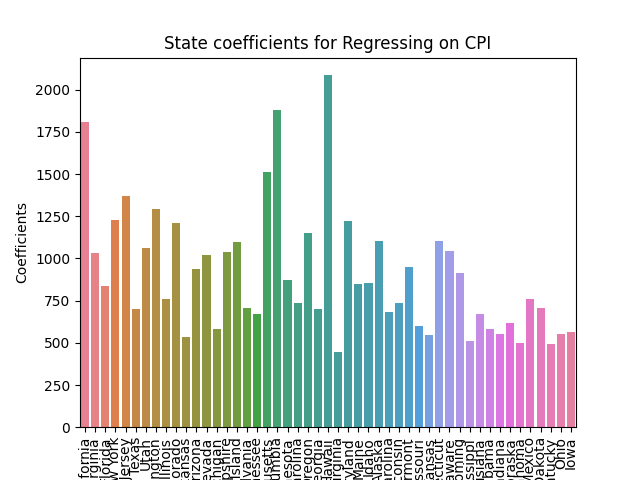
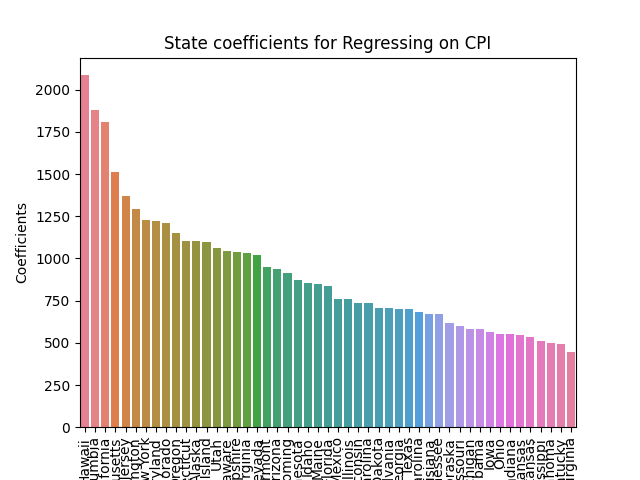
New updates

diff --git a/data_exploration.py b/data_exploration.py
@@ -1,12 +1,17 @@
 import pandas as pd
 import seaborn as sns
 import matplotlib.pyplot as plt
+import numpy as np
 
 data = pd.read_csv("merged_df.csv")
 
 CPI_states = data.iloc[:, 3:]
 
 correlations = CPI_states.corr() #Compute correlations
+just_cpi = correlations.sort_values(by = "CPI", ascending = False)['CPI']
+print(just_cpi.head(10))
+
+#The top 10 states are Alaska, Wyoming, South Dakota, Louisiana, Vermont, the District of Columbia, Oklahoma, Iowa, Hawaii
 
 high_mask = correlations[correlations >= 0.5] #High Correlation Mask
 low_mask = correlations[correlations < 0.5] #Low Correlation Mask
@@ -20,3 +25,5 @@ fig1 = plt.figure(figsize = (18, 12))
 sns.heatmap(low_mask, cmap = "YlOrBr", xticklabels= True, yticklabels=True) #We see that Florida, New Jersey, Illinois, Arizona, Nevada, Michigan, Rhode Island and Connecticut don't correlate well to CPI
 plt.title("Heatmap showing States with below 0.5 correlation to CPI")
 fig1.savefig("Low_heatmap.png")
+
+

diff --git a/load_data.py b/load_data.py
@@ -29,10 +29,21 @@ zillow.drop(columns = {"North Dakota", "Montana"}, inplace = True)
 zillow.dropna(inplace = True)
 
 merged_df = CPI.merge(zillow, on = ["Year", "Month", "Day"])
-print(merged_df)
 
 
 CPI.to_csv("clean_CPI.csv", index = False)
 zillow.to_csv("clean_zillow.csv", index = False)
 
 merged_df.to_csv("merged_df.csv", index = False)
+
+
+# Data Cleaning, I want to tranpose the dataset into many rows for one date of CPI, with ZHVI values and a corresponding column that identifies what state it's from. 
+dates_and_cpi = merged_df.iloc[:, :4]
+dates_cpi_california = merged_df.iloc[:, :5]
+dates_cpi_california['State'] = "California"
+dates_cpi_california.rename(columns = {"California" : "Value"}, inplace = True)
+
+concat_df = pd.concat([dates_and_cpi, dates_cpi_california], axis = 0, ignore_index = True)
+
+print(concat_df.dropna())
+print(merged_df)

diff --git a/linear regression.py b/linear regression.py
@@ -18,15 +18,16 @@ y = file[states]
 xtrain, xtest, ytrain, ytest = train_test_split(x, y, test_size = 0.15, train_size = .85, random_state = 21)
 model.fit(xtrain, ytrain)
 
-# print(model.intercept_) #Have an intercept of 0
 cdf = pd.DataFrame(model.coef_, states, columns=['Coefficients'])
-print(cdf)
 
-sns.barplot(cdf.T)
+ordered_by_coef = cdf.sort_values(by = "Coefficients", ascending = False)
+print(ordered_by_coef)
+
+sns.barplot(ordered_by_coef.T)
 plt.xticks(rotation = 90)
 plt.title("State coefficients for Regressing on CPI")
 plt.xlabel("States")
 plt.ylabel("Coefficients")
 plt.savefig("Coefficient_states.png")
 plt.show()
-# print(model.score(xtest, ytest))
+print(model.score(xtest, ytest))
